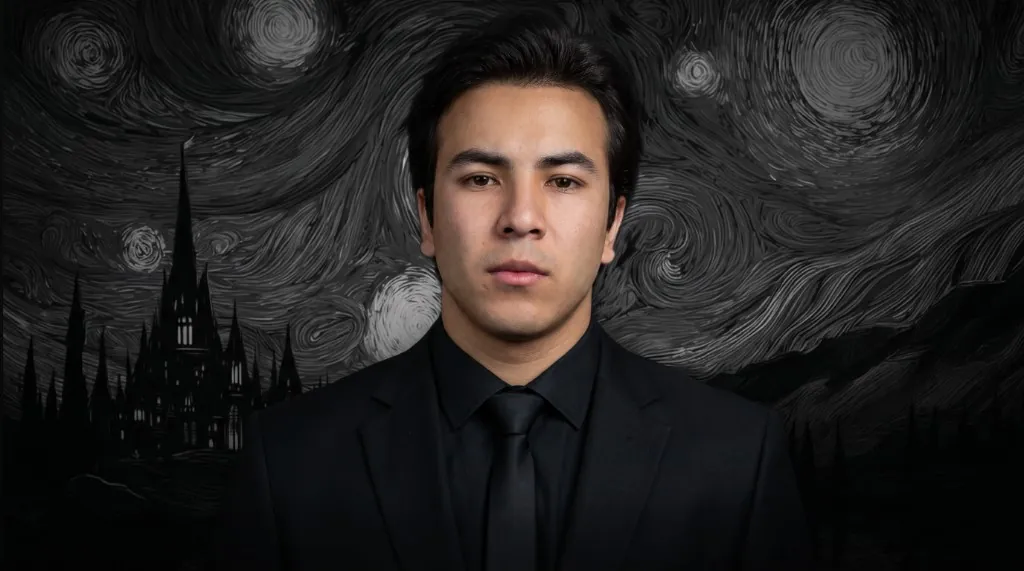
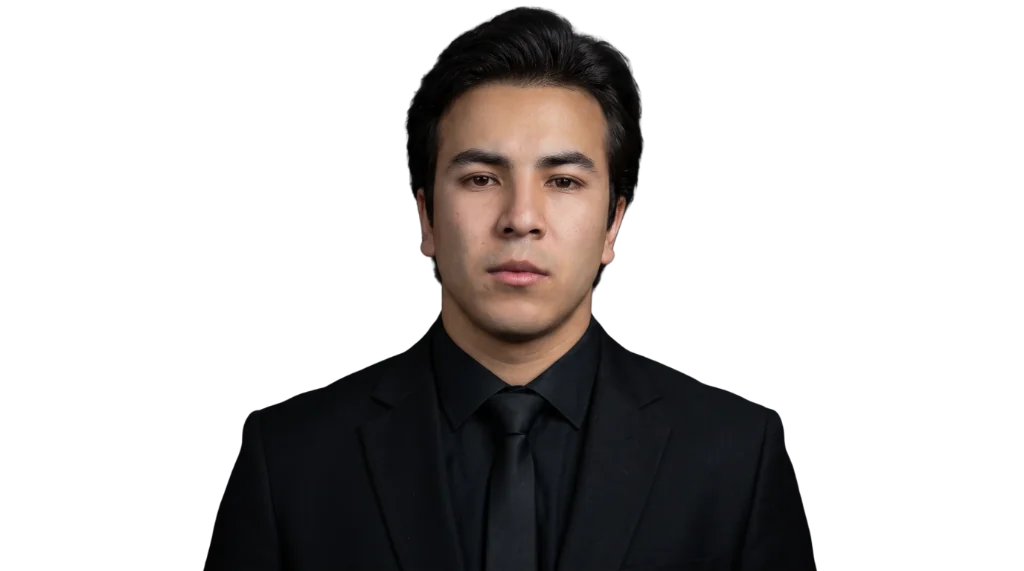
Fix WebP portraits losing transparency (black square on hero).

diff --git a/index.html b/index.html
@@ -111,7 +111,7 @@
   </script>
 
   <!-- Built Tailwind + site CSS (no Play CDN) -->
-  <link rel="preload" as="image" href="assets/hero_portrait.webp?v=1" type="image/webp" fetchpriority="high">
+  <link rel="preload" as="image" href="assets/hero_portrait.webp?v=2" type="image/webp" fetchpriority="high">
   <link rel="stylesheet" href="assets/css/fonts.css?v=seo3">
   <link rel="stylesheet" href="assets/css/tailwind.css?v=seo2">
   <link rel="stylesheet" href="assets/css/site.css?v=seo2">
@@ -337,7 +337,7 @@
       <div class="md:col-span-6 flex justify-center order-1 md:order-2 relative z-10 -mt-16 md:-mt-36 overflow-visible hero-reveal hero-reveal--portrait" style="--hero-delay: 120ms">
         <div class="hero-portrait-slot relative w-full max-w-[320px] h-[400px] md:max-w-none md:w-[480px] md:h-[580px]">
           <picture class="contents">
-            <source type="image/webp" srcset="assets/hero_portrait.webp?v=1">
+            <source type="image/webp" srcset="assets/hero_portrait.webp?v=2">
             <img src="assets/hero_portrait.png?v=7"
                  alt="Avazov Ogabek — Developer & Designer"
                  class="hero-portrait-mask absolute pointer-events-none select-none transition-transform duration-700"
@@ -439,7 +439,7 @@
             <div class="relative w-full h-full overflow-hidden rounded-xl flex items-center justify-center bg-black">
               <!-- Crisp Base Image (GPU accelerated) -->
               <picture class="contents">
-                <source type="image/webp" srcset="assets/about_media_portrait.webp?v=1">
+                <source type="image/webp" srcset="assets/about_media_portrait.webp?v=2">
                 <img
                   id="sem-media-img"
                   src="assets/about_media_portrait.jpg?v=3"
@@ -450,7 +450,7 @@
               </picture>
               <!-- Pre-blurred Layer for 120 FPS GPU-accelerated Unblur (fades out opacity smoothly on scroll) -->
               <picture class="contents">
-                <source type="image/webp" srcset="assets/about_media_portrait.webp?v=1">
+                <source type="image/webp" srcset="assets/about_media_portrait.webp?v=2">
                 <img
                   id="sem-media-blur"
                   src="assets/about_media_portrait.jpg?v=3"

diff --git a/bio.html b/bio.html
@@ -110,7 +110,7 @@
     <div class="relative">
       <div class="portrait-sticky overflow-hidden bg-neutral-900">
         <picture>
-          <source type="image/webp" srcset="assets/about_media_portrait.webp?v=1">
+          <source type="image/webp" srcset="assets/about_media_portrait.webp?v=2">
           <img
             src="assets/about_media_portrait.jpg?v=3"
             alt="Avazov Ogabek"
